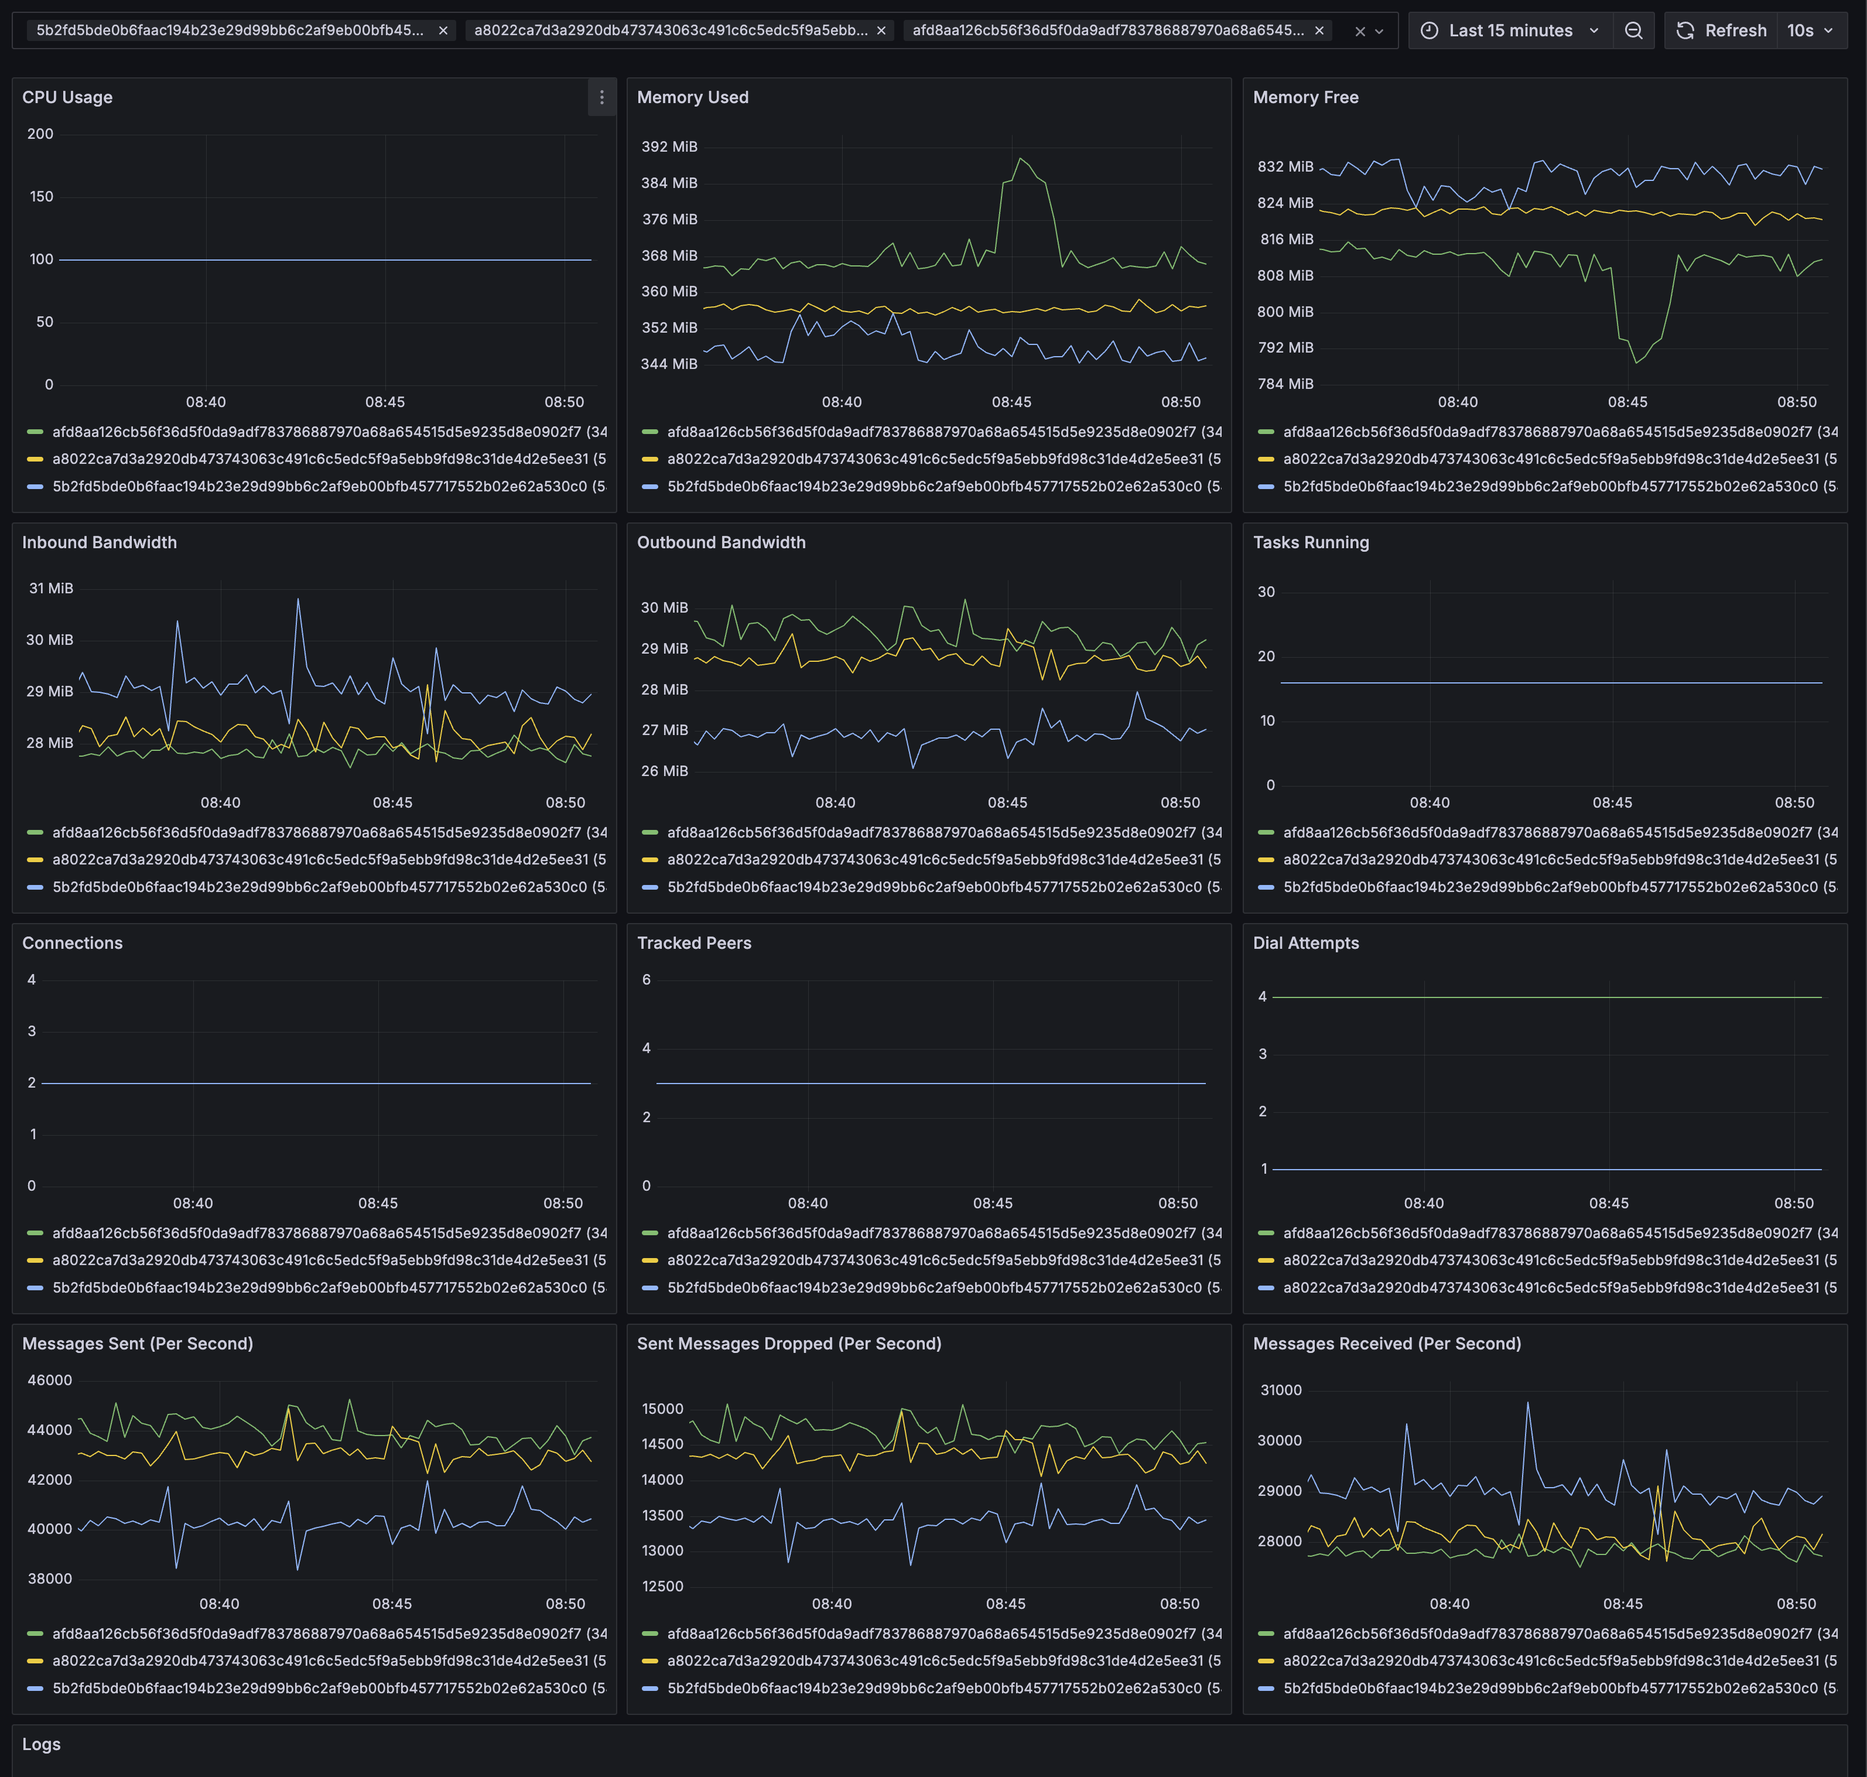
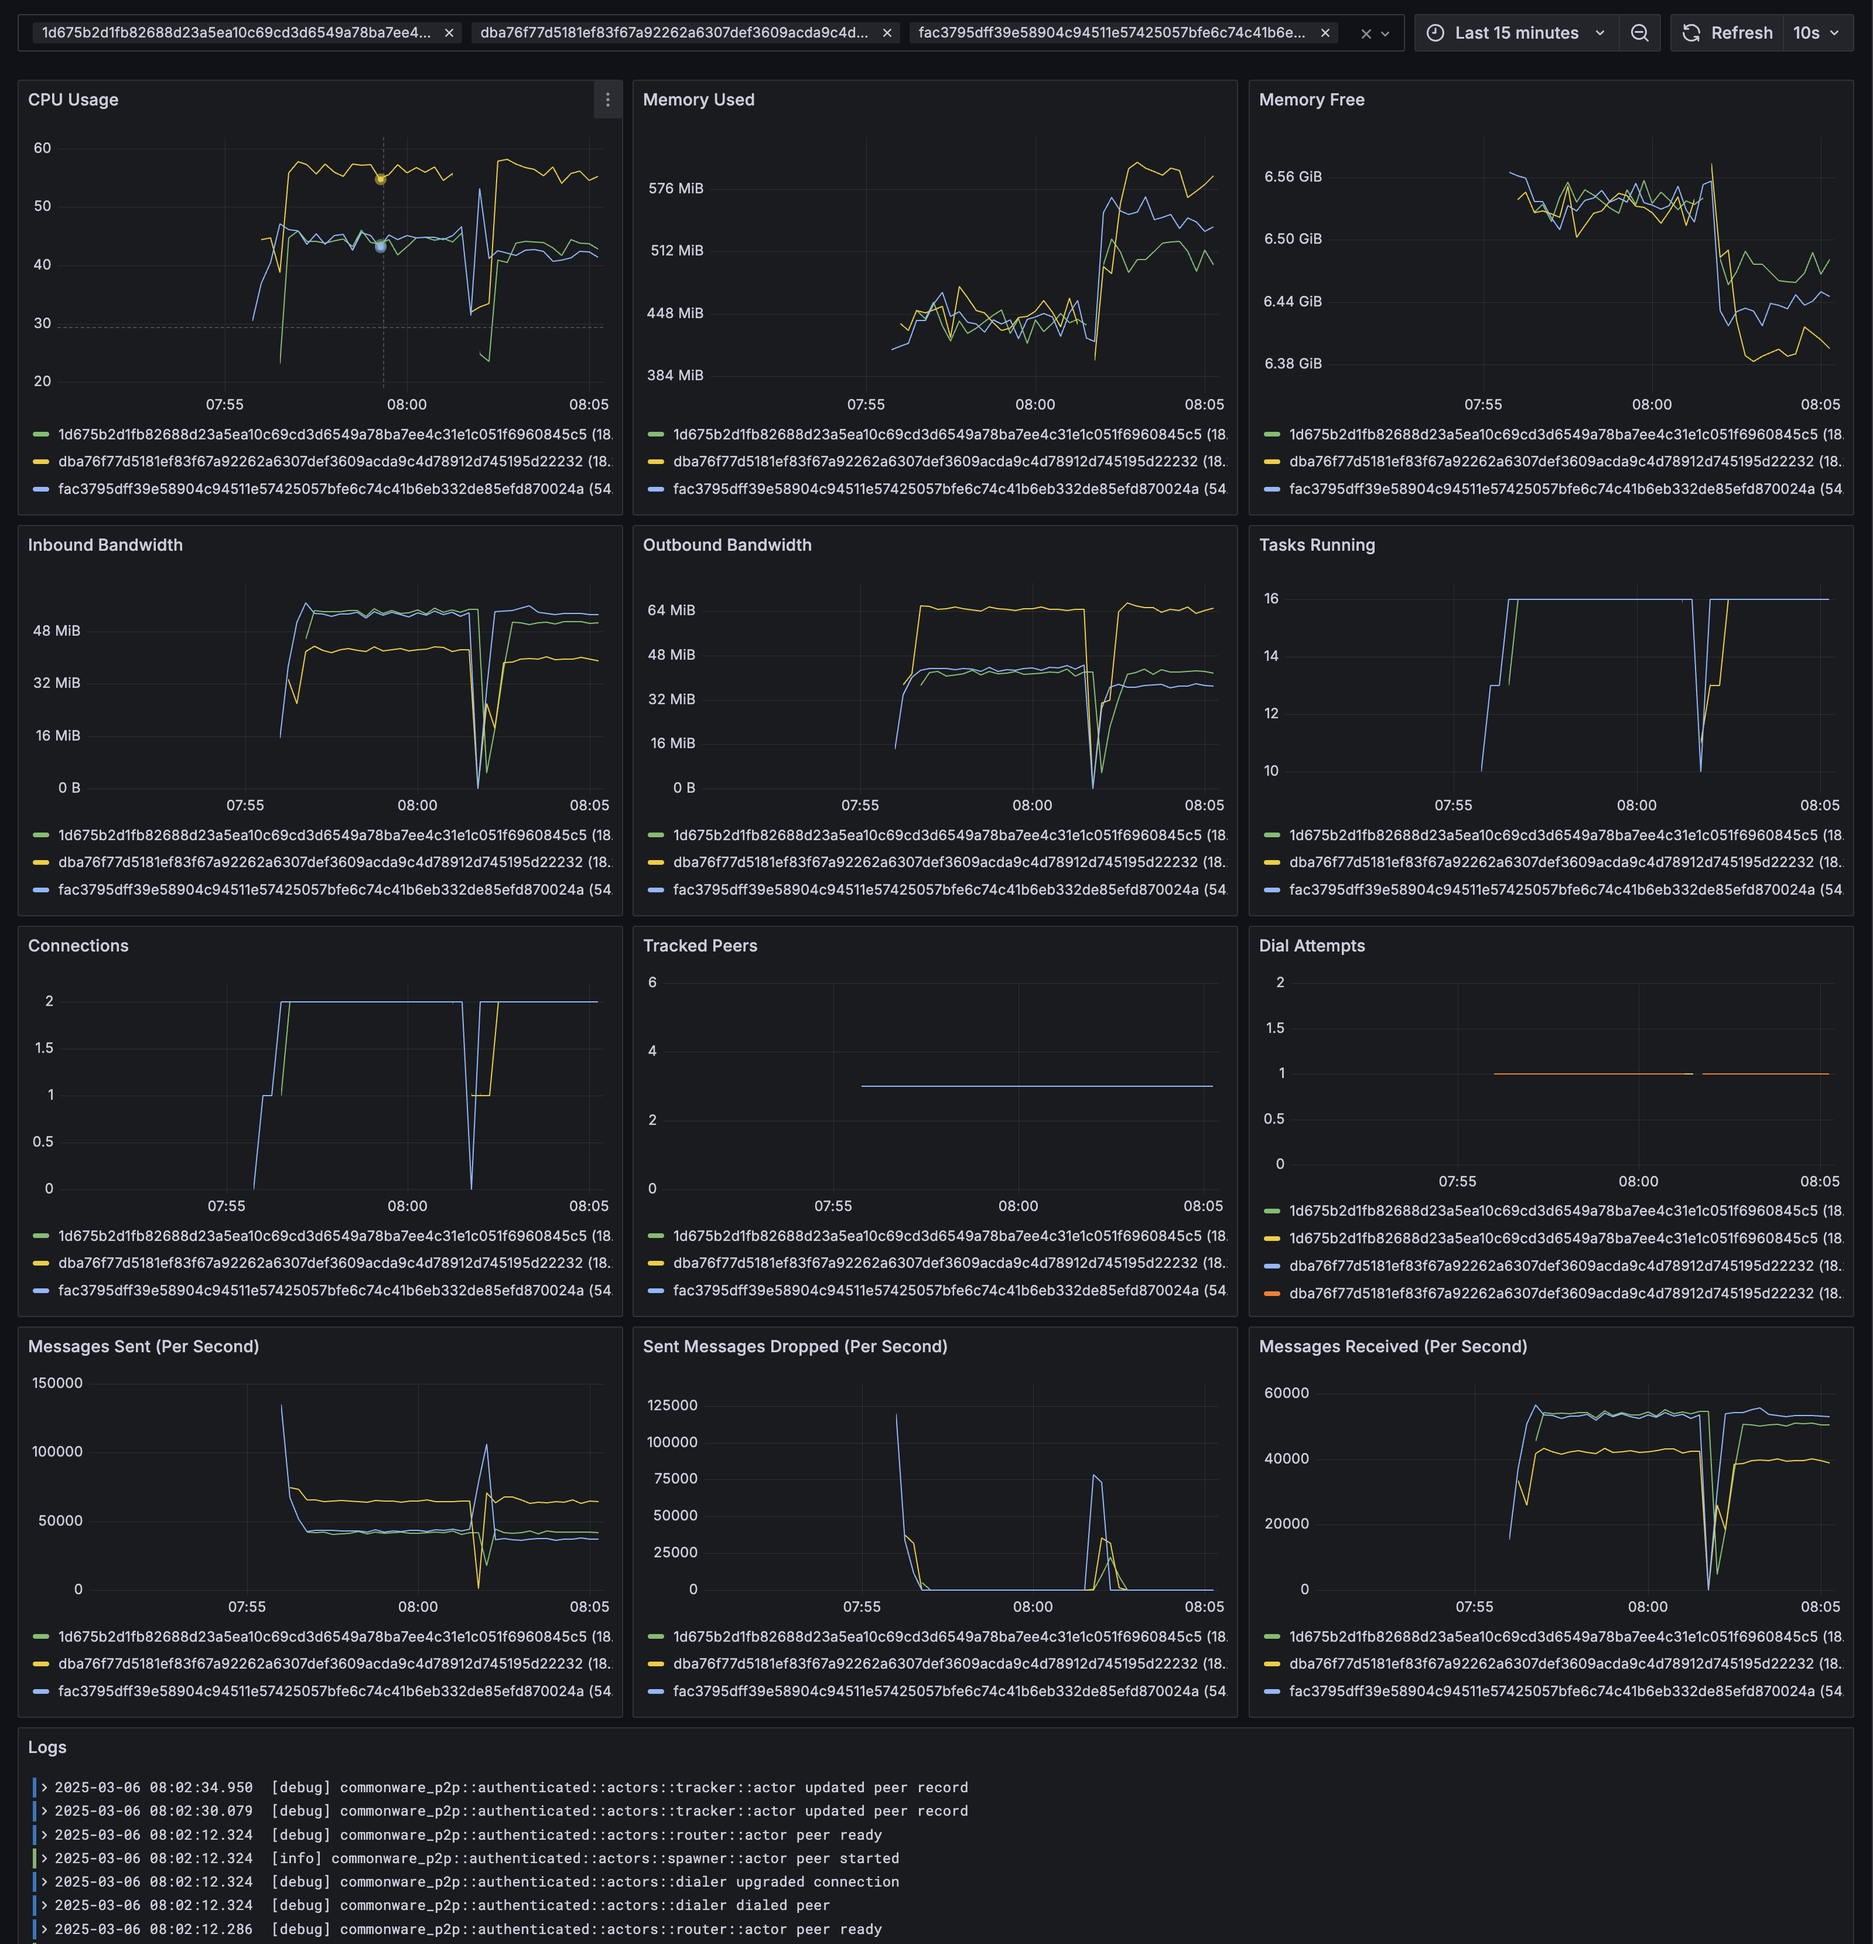
[flood] Fix recipient selection (#557)

diff --git a/docs/blogs/commonware-deployer.html b/docs/blogs/commonware-deployer.html
@@ -116,8 +116,8 @@
         </ol>
         <p><i>Step through the full walkthrough in the <flood> <a href="https://github.com/commonwarexyz/monorepo/blob/main/examples/flood/README.md">README</a>.</i></p>
         <div class="image-container">
-            <img src="../imgs/flood-grafana.png" alt="Automatically deployed Grafana dashboard for flood running on c7g.medium (1 vCPU, 2GB RAM)">
-            <div class="image-caption">Figure 2: Automatically deployed Grafana dashboard for <i>flood</i> running on <i>c7g.medium (1 vCPU, 2GB RAM)</i></div>
+            <img src="../imgs/flood-grafana.png" alt="Automatically deployed Grafana dashboard for flood running on c7g.xlarge (4 vCPU, 8GB RAM)">
+            <div class="image-caption">Figure 2: Automatically deployed Grafana dashboard for <i>flood</i> running on <i>c7g.xlarge (4 vCPU, 8GB RAM)</i></div>
         </div>
         <p>A local demo is a proof of concept; <i>deployer::ec2</i> makes it a proving ground.</p>
     </div>

diff --git a/examples/flood/src/bin/flood.rs b/examples/flood/src/bin/flood.rs
@@ -127,6 +127,12 @@ fn main() {
         // Create network
         let p2p = network.start();
 
+        // Remove self from valid recipients
+        let valid_recipients: Vec<PublicKey> = peer_keys
+            .into_iter()
+            .filter(|key| *key != public_key)
+            .collect();
+
         // Create flood
         let flood_sender = context
             .with_label("flood_sender")
@@ -140,8 +146,8 @@ fn main() {
                     rng.fill_bytes(&mut msg);
 
                     // Send to all peers
-                    let recipient_index = rng.gen_range(0..peer_keys.len());
-                    let recipient = Recipients::One(peer_keys[recipient_index].clone());
+                    let recipient_index = rng.gen_range(0..valid_recipients.len());
+                    let recipient = Recipients::One(valid_recipients[recipient_index].clone());
                     if let Err(e) = flood_sender.send(recipient, msg.into(), false).await {
                         error!(?e, "could not send flood message");
                     }

diff --git a/examples/flood/src/lib.rs b/examples/flood/src/lib.rs
@@ -13,8 +13,10 @@
 //! ## Create Deployer Artifacts
 //!
 //! ```bash
-//! cargo run --bin setup -- --peers 3 --bootstrappers 1 --regions us-west-2,us-east-1,eu-west-1 --instance-type c7g.medium --storage-size 10 --storage-class gp3 --worker-threads 1 --message-size 1024 --message-backlog 1024 --mailbox-size 16384 --dashboard dashboard.json --output assets
+//! cargo run --bin setup -- --peers 3 --bootstrappers 1 --regions us-west-2,us-east-1,eu-west-1 --instance-type c7g.xlarge --storage-size 10 --storage-class gp3 --worker-threads 4 --message-size 1024 --message-backlog 16384 --mailbox-size 16384 --dashboard dashboard.json --output assets
 //! ```
+//!
+//! _We use 3 peers (instead of the 2 required to test connection performance) to demonstrate that peer discovery works._
 //!
 //! ## Build Flood Binary
 //!

diff --git a/examples/flood/README.md b/examples/flood/README.md
@@ -19,8 +19,10 @@ cargo install commonware-deployer
 ### Create Deployer Artifacts
 
 ```bash
-cargo run --bin setup -- --peers 3 --bootstrappers 1 --regions us-west-2,us-east-1,eu-west-1 --instance-type c7g.medium --storage-size 10 --storage-class gp3 --worker-threads 1 --message-size 1024 --message-backlog 1024 --mailbox-size 16384 --dashboard dashboard.json --output assets
+cargo run --bin setup -- --peers 3 --bootstrappers 1 --regions us-west-2,us-east-1,eu-west-1 --instance-type c7g.xlarge --storage-size 10 --storage-class gp3 --worker-threads 4 --message-size 1024 --message-backlog 16384 --mailbox-size 16384 --dashboard dashboard.json --output assets
 ```
+
+_We use 3 peers (instead of the 2 required to test connection performance) to demonstrate that peer discovery works._
 
 ### Build Flood Binary
 
